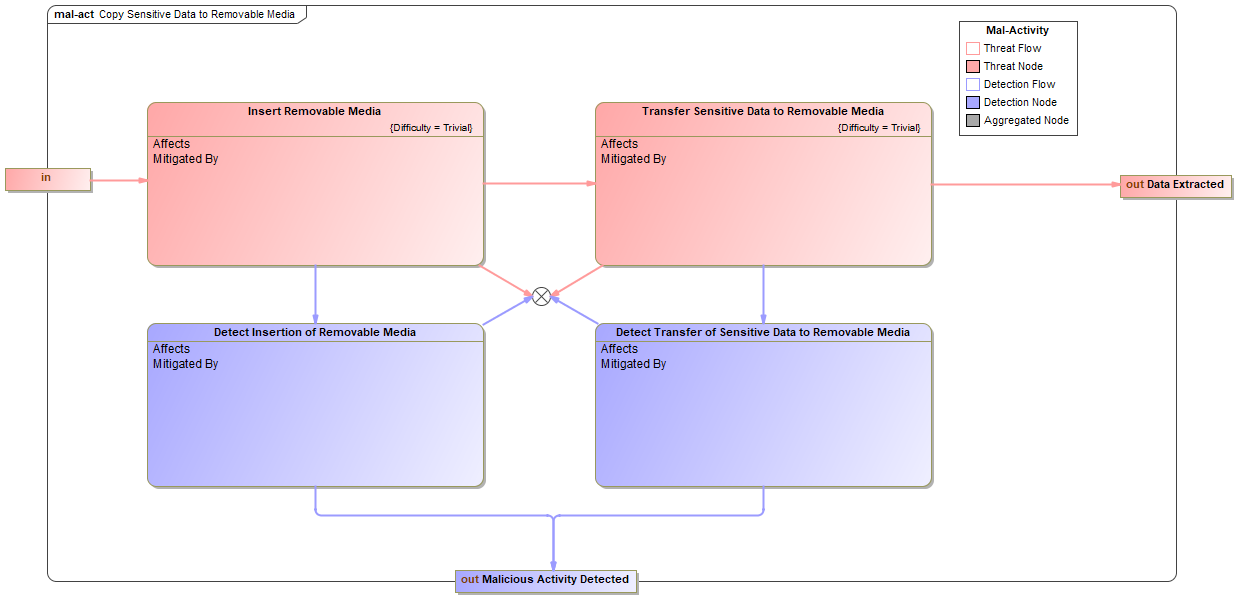
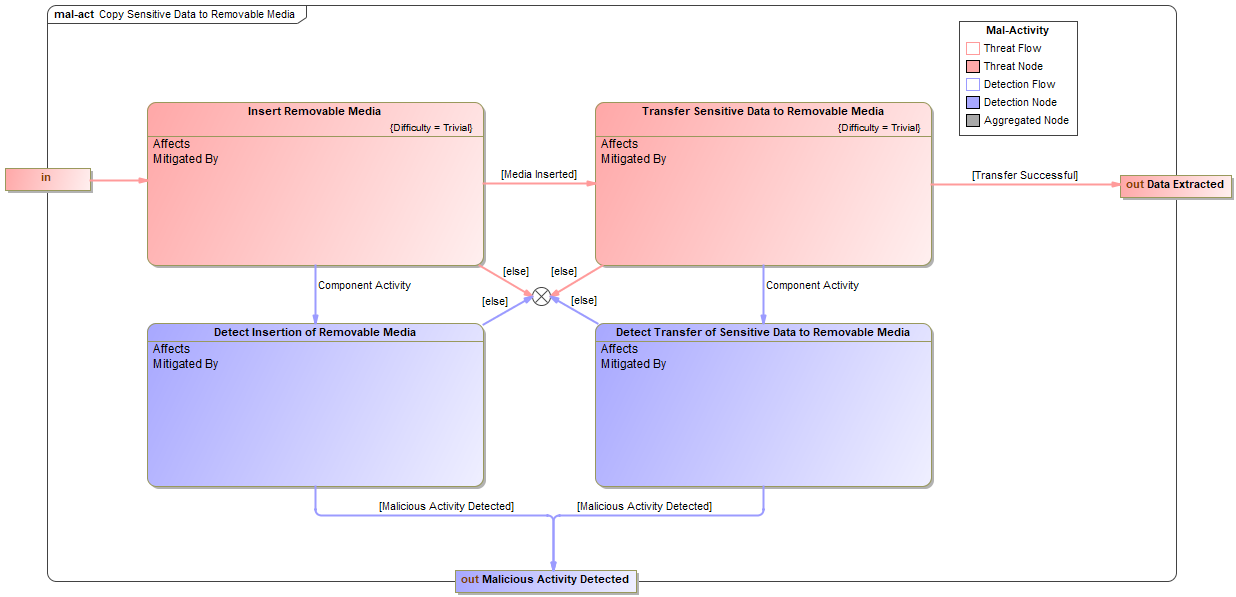
detail added

diff --git a/Documentation/threat-modelling.md b/Documentation/threat-modelling.md
@@ -209,43 +209,45 @@ Detailed Mal-Activity Diagrams use the following CEMT stereotypes:
 
 ### Threat Actions
 
+The first step in drawing the Detailed Mal-Activity Diagrams is to insert [`ThreatActions`](./stereotypes.md#threataction) which represent the specific steps an attacker is taking at this point of the threat flow. This is achieved by simply selecting `ThreatAction` from the drawing palette, placing it on the `CEMT Mal-Activity Diagram` and typing in a name for the `ThreatAction`.
+
+The purpose here is to create `ThreatActions` that define the steps the attacker needs to take to move between the input nodes and the output nodes of the `CEMT Mal-Activity Diagram`. That could be a single `ThreatAction`, as shown in the videos below, or it could be a number of sequential `ThreatActions`, or it could be parallel `ThreatActions` that represent multiple paths the attack may take from the input. The goal here is to manage the complexity of the threat model by appropriately grouping these detailed `ThreatActions` into `AggregatedActions` which are the basis of the [Intermediate Mal-Activity Diagrams](#intermediate-mal-activity-diagrams). If these Detailed Mal-Activity Diagrams start to become too complex and confusing, the modeller should reassess whether the diagram could become more intuitive and understandable by adding another layer of `AggregatedActions`.
 
 https://user-images.githubusercontent.com/7237737/180129375-b821794b-79b5-4076-8328-e7339aaaa203.mp4
 
-
 ### Threat Difficulty
 
+Once the `ThreatActions` have been drawn, the modeller needs to assign a `Difficulty` property to each `ThreatAction`. This property represents the difficulty of the step irrespective of any mitigations being in place. This is meant to represent a relative difficulty between the steps in your threat model, and is used in the [Risk Assessment](./risk.md) step of the analysis. 
+
+As an example, inserting a removable media device into a USB port is trivially difficult, and any attacker would be able to do that, whereas a complex Electronic Attack that targets bespoke signal processors is likely to require a higher level of attacker expertise and resources. In this case, those steps on the Electronic Attack threat path would have a higher `Difficulty` value than those associated with inserting the removable media device.
 
 https://user-images.githubusercontent.com/7237737/180129383-8d8faaae-19a8-49fa-bf98-1b4fad5cd0b3.mp4
 
-
 ### Detection Actions
 
+Every `ThreatAction` taken by an attacker will generate some sort of activity that the system may be able to detect. [`DetectionActions`](./stereotypes.md#detectionaction) are added by selecting `DetectionAction` from the drawing palette, placing it on the `CEMT Mal-Activity Diagram` and typing in a name for the `DetectionAction`. Each `ThreatAction` should have a corresponding `DetectionAction`, which represents the system's ability to detect that specific `ThreatAction`.
 
 https://user-images.githubusercontent.com/7237737/180129398-448faac0-72cd-4571-a897-fe51d74e7134.mp4
 
-
 ### Threat Ends
 
+[`ThreatEnds`](./stereotypes.md#threatend) represent a potential end point for a threat flow in the threat model. While one potential path is for the attacker to reach their desired outcome (the `ThreatImpacts` described in the [Signals](#signals) section), the attacker may be stopped because an attacker was unable to complete a particular step in the attacker path and the attack was stopped. These objects can be created by simply selecting `ThreatImpact` from the drawing palette and placing it on the diagram.
 
 https://user-images.githubusercontent.com/7237737/180129648-8858f33c-c866-4065-8233-c045d93fa45e.mp4
-
 
 ### Flows
 
 
 https://user-images.githubusercontent.com/7237737/180129660-3e8ae33c-5b9e-42a4-8f3f-bb849691c2a8.mp4
 
-
 ### Labels
 
 
 https://user-images.githubusercontent.com/7237737/180129680-d85b2138-7889-4742-8143-aafa275a8728.mp4
 
-
 ### Additional Optional Steps
 
-<mark>Adding multiple ThreatEnds.</mark>
+Adding multiple ThreatEnds
 
 ![Detailed Mal-Activity Diagram](/Documentation/Images/detmalact-clean.png)
 
